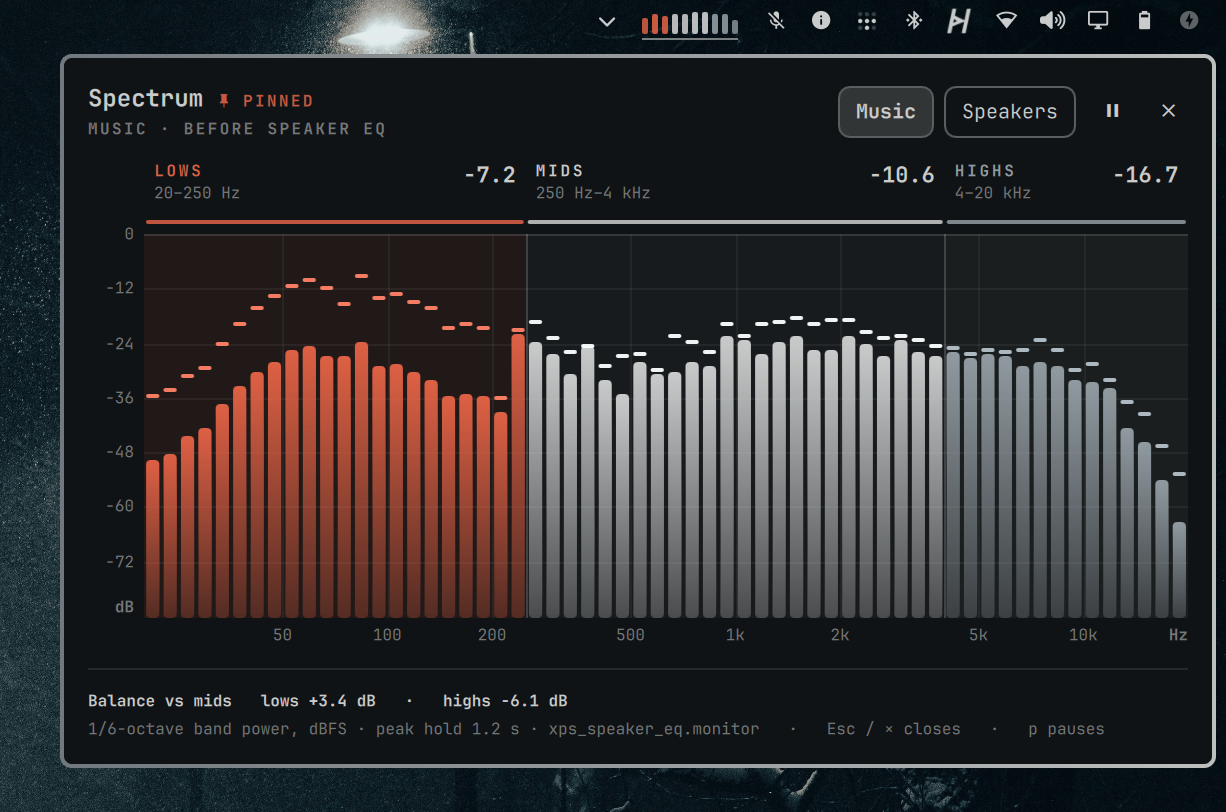
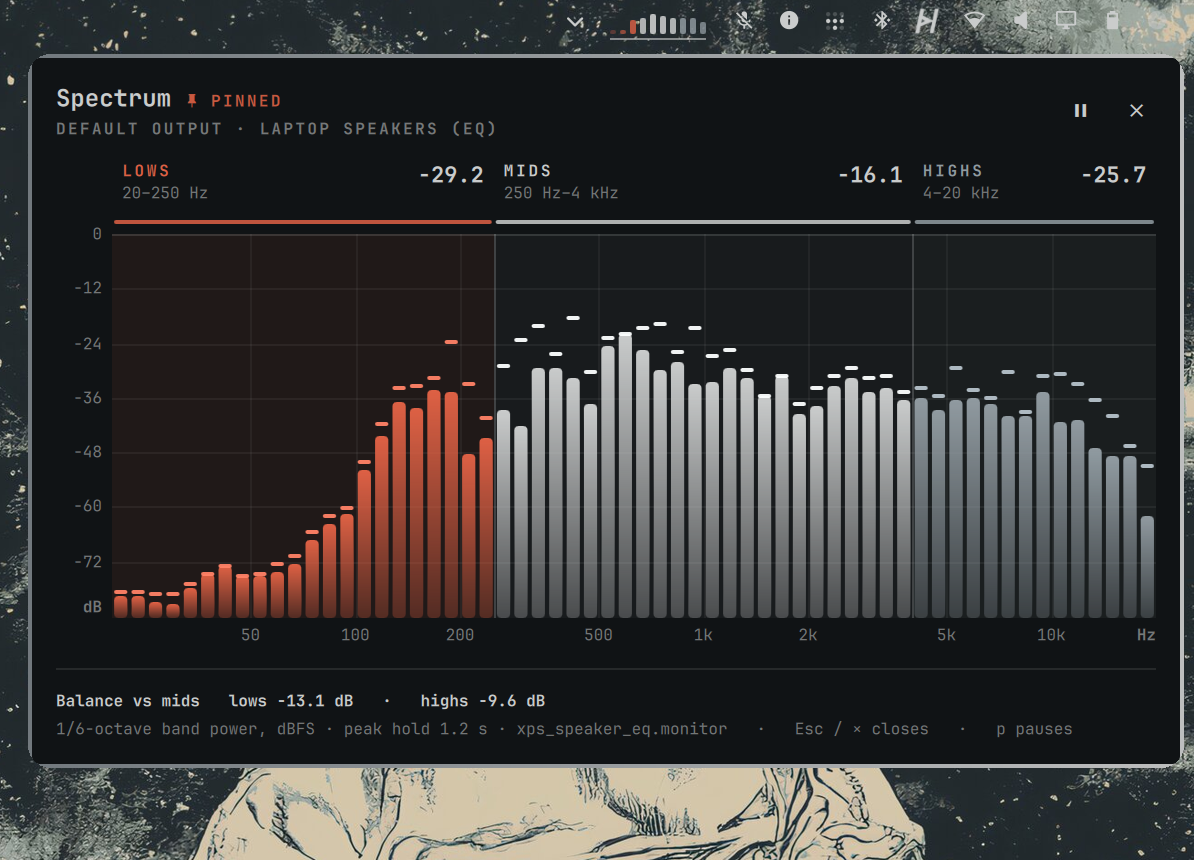
Drop NumPy: one-command install; new card shot
The helper now takes its FFT from libfftw3f through ctypes (FFTW ships
with every Omarchy system as a pipewire-audio dependency) and does the
rest in plain Python, so `omarchy plugin add` is the whole install.
The Hann window is applied in the frequency domain; band levels match
the NumPy version (0.00 dB on pink noise). CPU: ~2% bar, ~6% card.

The marketplace card shows the plain default-output view with live
music over the wallpaper, titled Spectrum Visualizer.

Claude-Session: https://claude.ai/code/session_017FLZ6kR3X5ZSoUKZdczJYe

diff --git a/tools/make_preview.py b/tools/make_preview.py
@@ -117,8 +117,13 @@ def main():
     card.alpha_composite(icon, (92 + (tile - icon.width) // 2, 70 + (tile - icon.height) // 2))
 
     x = 98
-    d.text((x - 4, 192), a.name, font=font(100, "Bold"), fill=WHITE)
-    d.text((x - 4, 292), a.name2, font=font(100, "Bold"), fill=accent)
+    # the name may not run into the window: shrink from 100 px until both lines fit
+    room = wx - 40 - (x - 4)
+    size = 100
+    while size > 60 and max(d.textlength(t, font=font(size, "Bold")) for t in (a.name, a.name2)) > room:
+        size -= 2
+    d.text((x - 4, 192 + (100 - size)), a.name, font=font(size, "Bold"), fill=WHITE)
+    d.text((x - 4, 192 + (100 - size) + size), a.name2, font=font(size, "Bold"), fill=accent)
     y = 432
     for line in a.tagline.split("|"):
         d.text((x, y), line, font=font(36), fill=DIM)

diff --git a/README.md b/README.md
@@ -17,14 +17,9 @@ Omarchy installs third-party plugins disabled unless `--enable` is provided.
 Review the repository before enabling it: shell plugins run unsandboxed with
 your user permissions.
 
-Then add **Spectrum** to the bar from the bar's widget settings (it defaults to
-the right section).
-
-Spectrum needs NumPy. If the card reads *Needs python-numpy*, install it:
-
-```bash
-omarchy pkg add python-numpy
-```
+That is the whole installation: everything Spectrum uses already ships with
+Omarchy. Add **Spectrum** to the bar from the bar's widget settings if it is
+not placed for you (it defaults to the right section).
 
 ## Usage
 
@@ -47,9 +42,9 @@ CPU. The state survives restarts and lives in `~/.config/omarchy/spectrum.json`
 (`{"paused": true}`); scripts can write that file too. While paused, hovering
 no longer previews, but a click still opens the card to resume.
 
-**Cost.** Roughly 2-3 % of one core with only the bar view showing (15 fps,
-10 bands), more while the card is open (30 fps, 60 bands). Nothing runs while
-the bar is hidden or the widget is paused.
+**Cost.** About 2 % of one core with only the bar view showing (15 fps,
+10 bands) and about 6 % while the card is open (30 fps, 60 bands). Nothing
+runs while the bar is hidden or the widget is paused.
 
 ## Configure
 
@@ -99,9 +94,13 @@ rm -f ~/.config/omarchy/spectrum.json
 
 ## Dependencies
 
-- Quickshell and the Omarchy shell QML modules (a normal Omarchy installation)
-- PipeWire's `pw-record` (`pipewire-audio`, installed with Omarchy)
-- Python 3 and NumPy (`python-numpy`)
+All installed with Omarchy; nothing extra to add:
+
+- Quickshell and the Omarchy shell QML modules
+- PipeWire's `pw-record` (`pipewire-audio`)
+- Python 3, standard library only
+- FFTW (`libfftw3f`), loaded through Python's `ctypes`; it is a dependency of
+  `pipewire-audio` and `alsa-utils`, so every Omarchy system has it
 
 ## Security and privacy
 
